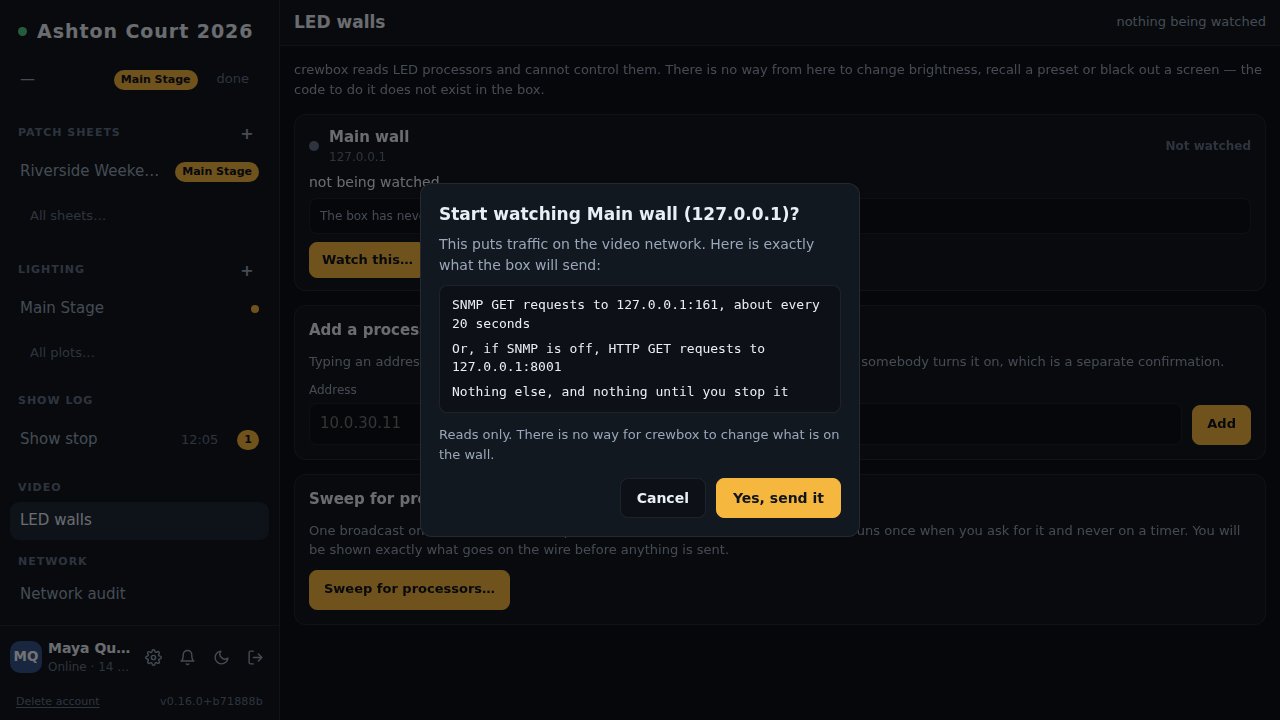
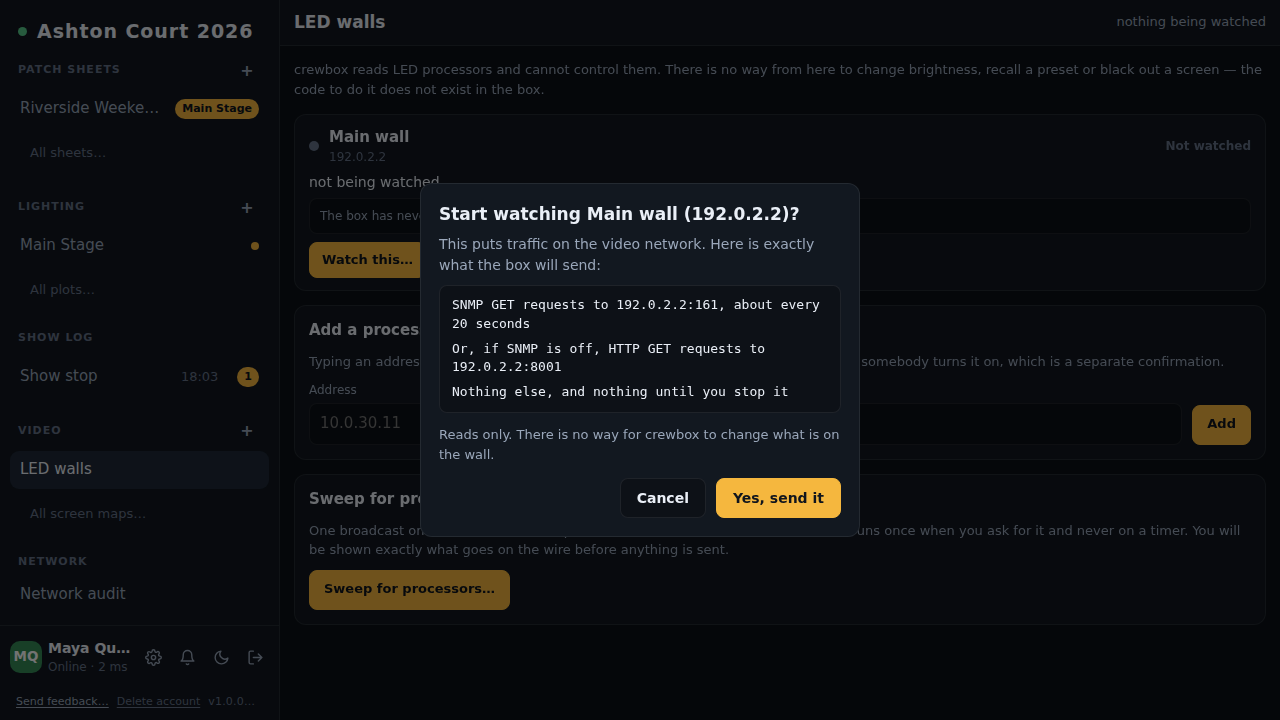
Docs shots: read the fake LED wall on a LAN address, not loopback
The video module refuses 127.x as a processor address, so the LED walls
shot filled in 127.0.0.1, was refused, and never reached a wall. The
simulator now listens on this machine's first LAN address and the shot
types that; a connection to it never leaves the machine. The two video
shots are retaken from the working run.

Claude-Session: https://claude.ai/code/session_01GKyzFazJgyzGYD3f9PM5jC

diff --git a/playwright.screenshots.config.ts b/playwright.screenshots.config.ts
@@ -1,5 +1,6 @@
 import { defineConfig } from '@playwright/test'
 import { E2E_LICENCE_PUBLIC_KEY } from './e2e/licenceKey.ts'
+import { wallAddress } from './e2e/screenshots/wallAddress.ts'
 
 /**
  * The docs screenshot run — `npm run docs:shots`.
@@ -19,6 +20,10 @@ import { E2E_LICENCE_PUBLIC_KEY } from './e2e/licenceKey.ts'
 // No timestamp: the path shows up inside the This-box screenshot's fix
 // lines, so it has to read cleanly. npm run docs:shots wipes it first.
 const dataDir = `${process.env.RUNNER_TEMP ?? '/tmp'}/crewbox-shots-data`
+
+// The fake LED processor's address. Not loopback, which the video module
+// refuses — see e2e/screenshots/wallAddress.ts.
+const wall = wallAddress()
 
 export default defineConfig({
   testDir: 'e2e/screenshots',
@@ -42,7 +47,8 @@ export default defineConfig({
   webServer: [
     {
       command: 'node scripts/coex-sim.mjs',
-      url: 'http://127.0.0.1:8001/api/v1/device',
+      url: `http://${wall}:8001/api/v1/device`,
+      env: { COEX_SIM_HOST: wall },
       reuseExistingServer: false,
       timeout: 10_000,
     },
@@ -76,10 +82,11 @@ export default defineConfig({
         CREWBOX_CONTROL_KEY: 'shots-control-key',
         JOIN_RATE_LIMIT: '1000',
         CREWBOX_MODULES: 'schedule,patch,lighting,incident,video,network',
-        // Loopback, so the video module's sweep button is offered rather than
-        // showing its "no video adapter" state. Nothing sweeps during a shot
-        // run — the scene photographs a processor added by address.
-        CREWBOX_VIDEO_IFACE: '127.0.0.1',
+        // The simulator's address, so the video module's sweep button is
+        // offered rather than showing its "no video adapter" state, and the
+        // processor sits on the adapter's own network. Nothing sweeps during
+        // a shot run — the scene photographs a processor added by address.
+        CREWBOX_VIDEO_IFACE: wall,
         LIVEKIT_URL: '',
       },
     },

diff --git a/e2e/screenshots/shots.spec.ts b/e2e/screenshots/shots.spec.ts
@@ -1,6 +1,7 @@
 import { expect, test, type Page } from '@playwright/test'
 import { FakeConsole } from '../dmxSender'
 import { CREW, fixedDevice, phoneDevice, shoot } from './helpers'
+import { wallAddress } from './wallAddress'
 
 /**
  * The docs screenshot run: one seeded event, photographed area by area into
@@ -308,8 +309,8 @@ test('shots: LED walls', async () => {
   // Runs after 'shots: admin', which leaves the unlock in memory — the add
   // form and the sweep button are both admin-only.
   //
-  // The processor being read is scripts/coex-sim.mjs on loopback, started by
-  // this config. Nobody has had a NovaStar box in front of this module, so
+  // The processor being read is scripts/coex-sim.mjs on this machine's LAN
+  // address (wallAddress.ts says why not loopback), started by the config. Nobody has had a NovaStar box in front of this module, so
   // the alternative was photographing an empty pane; the docs page says
   // plainly that the field names behind these numbers are unconfirmed.
   await maya
@@ -318,7 +319,7 @@ test('shots: LED walls', async () => {
     .click()
   await expect(maya.getByRole('heading', { name: 'LED walls' })).toBeVisible()
 
-  await maya.getByLabel('Address').fill('127.0.0.1')
+  await maya.getByLabel('Address').fill(wallAddress())
   await maya.getByLabel('Name').fill('Main wall')
   await maya.getByRole('button', { name: 'Add', exact: true }).click()
 

diff --git a/e2e/screenshots/wallAddress.ts b/e2e/screenshots/wallAddress.ts
@@ -1,0 +1,23 @@
+import { networkInterfaces } from 'node:os'
+
+/**
+ * Where the docs run's fake LED processor listens, and what the LED walls
+ * shot types into the Address field.
+ *
+ * Not loopback: the video module refuses 127.x as a processor address (it is
+ * not one processor on a video network, and the store's unicast rule says so),
+ * so a simulator on 127.0.0.1 left the shot stuck on the add form. This
+ * machine's own first LAN address is a real unicast address the box accepts,
+ * and a connection to it never leaves the machine.
+ *
+ * Read by both the config and the spec, which run in different processes, so
+ * it is computed rather than handed over; both see the same interfaces.
+ */
+export function wallAddress(): string {
+  for (const list of Object.values(networkInterfaces())) {
+    for (const nic of list ?? []) {
+      if (nic.family === 'IPv4' && !nic.internal) return nic.address
+    }
+  }
+  throw new Error('the LED walls shot needs a non-loopback IPv4 address on this machine')
+}
